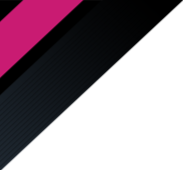
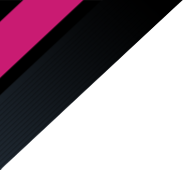
Add files via upload

diff --git a/index.html b/index.html
@@ -12,7 +12,7 @@
     <body>
       
       <span class="disc1"><img src="border.png"></span>
-        <span class="disc2"><img src="download.jpg"></span>
+        <span class="disc2"><img src="download.png"></span>
           <br><br><br><br>
           <h1 id="r">RATE CARD</h1><br>
       <label id="rate card" for="type of rate card">Choose the type of rate card:</label>
